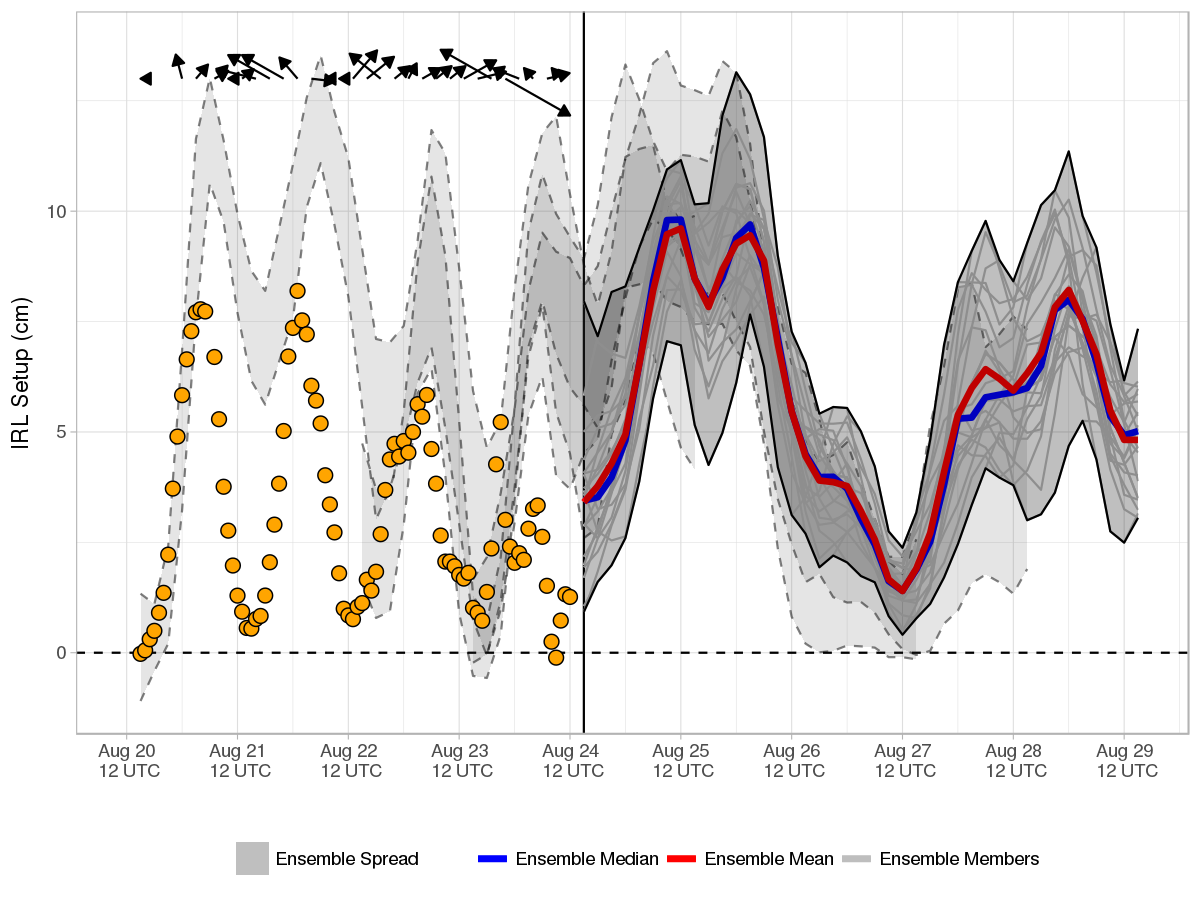
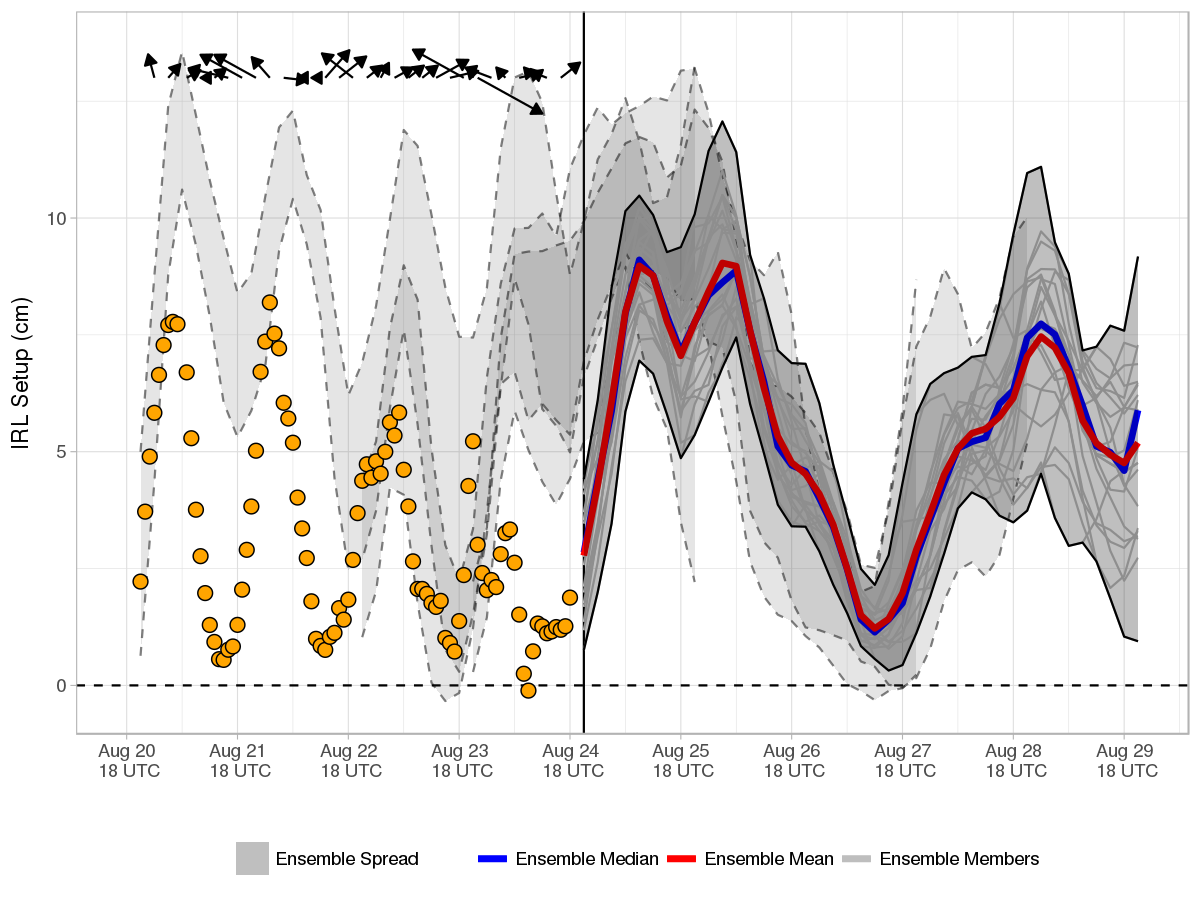
Forecast Update

Changed region(s): [[0.0925, 0.0311, 0.9558, 0.7778], [0.0308, 0.2178, 0.0617, 0.2489]]

diff --git a/docs/index.md b/docs/index.md
@@ -1,9 +1,9 @@
-Current Forecast 2018-08-24, Cycle 06 UTC
+Current Forecast 2018-08-24, Cycle 12 UTC
 -----------------------------------------
 
 [![](img/raw_setup.png)](https://fit-winds.github.io/IRLSetup/img/raw_setup.png)
 
-> Forecast valid 2018-08-24 08:33:52.
+> Forecast valid 2018-08-24 14:40:27.
 
 Explanation
 -----------
@@ -23,7 +23,7 @@ Ensemble Forecast System
 cycles. Calculation of the IRL setup is performed shortly after a new
 GEFS cycle is made available on the [data access
 link](http://www.ftp.ncep.noaa.gov/data/nccf/com/gens/prod/). The
-current cycle 2018-08-24 06 UTC 0.5° GEFS mean and median forecasts of
+current cycle 2018-08-24 12 UTC 0.5° GEFS mean and median forecasts of
 setup are represented by the red and blue curves, respectively. Ensemble
 spread from the current and three previous GEFS runs are shaded grey and
 bounded by solid and dashed curves, respectively.
